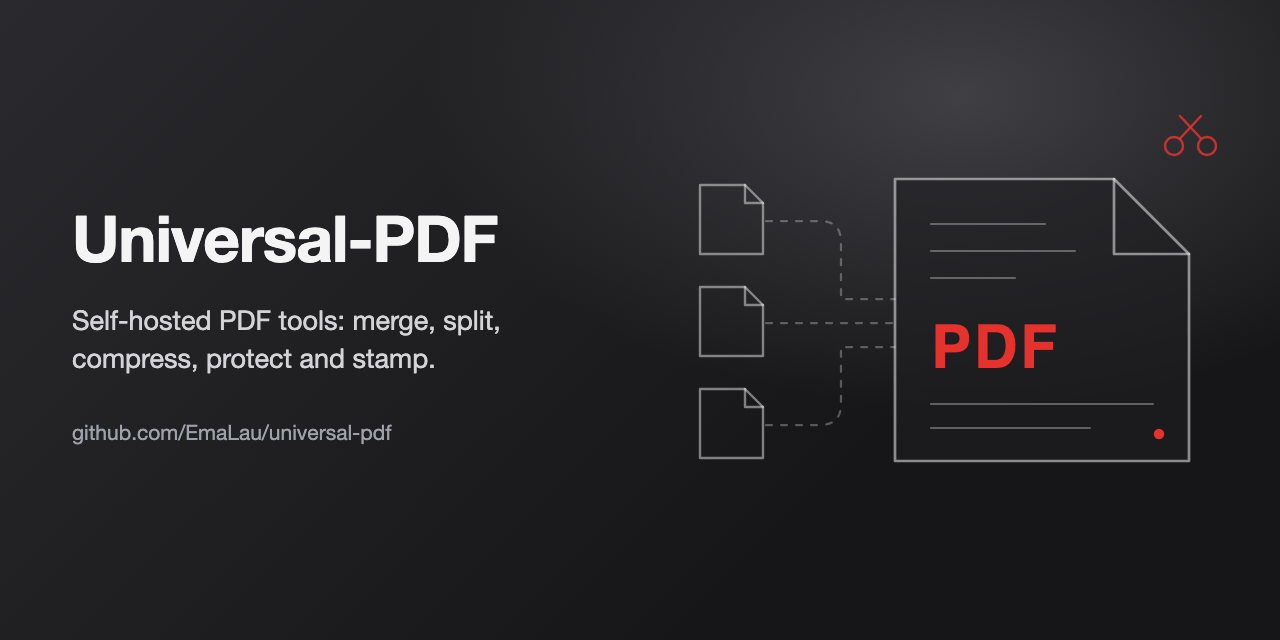
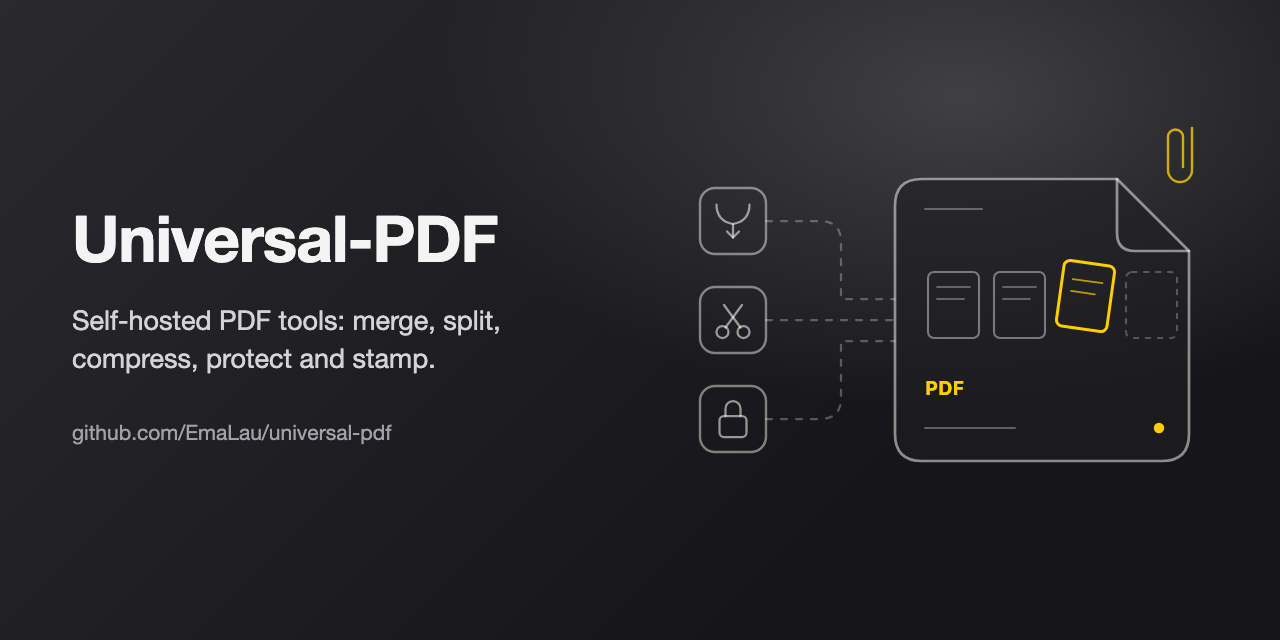
Cover in the style of the other repositories; generic texts in the UI
The page no longer mentions the NAS or Tailscale. The cover and the social
preview now use the shared style: thin white outlines, yellow accent.

diff --git a/server/static/index.html b/server/static/index.html
@@ -143,13 +143,13 @@ footer{margin-top:44px;color:var(--muted);font-size:13px;text-align:center}
 <main>
   <header class="top">
     <a class="brand" href="#"><span class="logo"><svg width="20" height="20" viewBox="0 0 24 24" fill="none" stroke="currentColor" stroke-width="2" stroke-linecap="round" stroke-linejoin="round"><path d="M14 3H7a2 2 0 0 0-2 2v14a2 2 0 0 0 2 2h10a2 2 0 0 0 2-2V8z"/><path d="M14 3v5h5"/></svg></span>Universal-PDF</a>
-    <span class="pill"><svg width="14" height="14" viewBox="0 0 24 24" fill="none" stroke="currentColor" stroke-width="2.2"><rect x="4" y="11" width="16" height="10" rx="2"/><path d="M8 11V7a4 4 0 0 1 8 0v4"/></svg>Sul <b>NAS di casa</b></span>
+    <span class="pill"><svg width="14" height="14" viewBox="0 0 24 24" fill="none" stroke="currentColor" stroke-width="2.2"><rect x="4" y="11" width="16" height="10" rx="2"/><path d="M8 11V7a4 4 0 0 1 8 0v4"/></svg>Tutto <b>in locale</b></span>
   </header>
 
   <!-- HOME -->
   <div id="home">
     <h1>Tutti gli strumenti PDF, in casa</h1>
-    <p class="lead">Unisci, dividi, comprimi, converti e proteggi i tuoi PDF. Tutto gira sul NAS: i file non vanno su internet e vengono cancellati appena hai scaricato il risultato.</p>
+    <p class="lead">Unisci, dividi, comprimi, converti e proteggi i tuoi PDF. Tutto gira sul tuo server: i file non vanno su internet e vengono cancellati appena hai scaricato il risultato.</p>
     <div class="drop-hero" id="heroDrop"><strong>Trascina qui un PDF (o in qualsiasi punto della pagina)</strong><span>oppure clicca per sceglierlo, poi scegli cosa farci</span></div>
     <section class="tag">Organizza</section>
     <div class="grid" id="g-org"></div>
@@ -181,7 +181,7 @@ footer{margin-top:44px;color:var(--muted);font-size:13px;text-align:center}
     </div>
   </div>
 
-  <footer>Universal-PDF · self-hosted sul NAS · nessun file conservato</footer>
+  <footer>Universal-PDF · self-hosted · nessun file conservato</footer>
 </main>
 
 <dialog id="pick"><div class="dlg"><h2>Cosa vuoi fare?</h2><p id="pickName"></p><div class="dgrid" id="pickGrid"></div>
@@ -521,12 +521,12 @@ $("#run").onclick = () => {
   $("#err").textContent = ""; $("#run").disabled = true;
   const bar = $("#bar"), txt = $("#barTxt");
   bar.classList.remove("hidden", "ind"); txt.classList.remove("hidden"); bar.firstElementChild.style.width = "0";
-  txt.textContent = "Invio al NAS…";
+  txt.textContent = "Invio al server…";
   const r = xhr = new XMLHttpRequest();
   xhr.open("POST", "api/" + ep); xhr.responseType = "blob";
-  xhr.upload.onprogress = e => { if (e.lengthComputable) { bar.firstElementChild.style.width = (e.loaded / e.total * 100) + "%"; txt.textContent = `Invio al NAS… ${fmt(e.loaded)} di ${fmt(e.total)}`; } };
+  xhr.upload.onprogress = e => { if (e.lengthComputable) { bar.firstElementChild.style.width = (e.loaded / e.total * 100) + "%"; txt.textContent = `Invio al server… ${fmt(e.loaded)} di ${fmt(e.total)}`; } };
   xhr.upload.onload = () => { bar.classList.add("ind"); txt.textContent = "Elaborazione in corso…"; };
-  xhr.onerror = () => fail("Connessione al NAS persa. Tailscale è acceso?");
+  xhr.onerror = () => fail("Connessione al server persa. Controlla la rete e riprova.");
   xhr.onload = async () => {
     xhr = null;
     if (r.status !== 200) {
